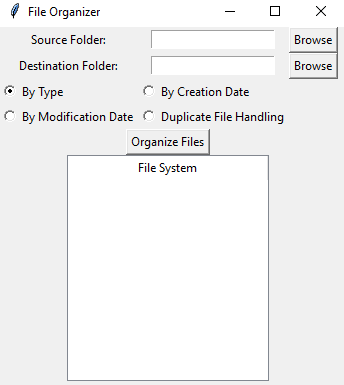
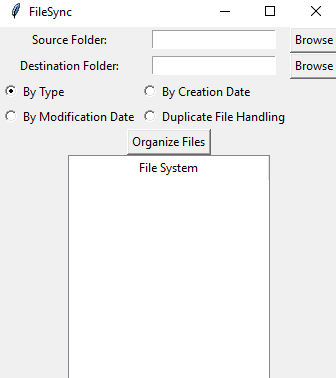
Changes the images and name in main.py file

diff --git a/main.py b/main.py
@@ -4,5 +4,5 @@ from gui import  FileOrganizerGUI
 if __name__ == "__main__":
     root = tk.Tk()
     app = FileOrganizerGUI(root)
-    root.title("File Organizer")
+    root.title("FileSync")
     root.mainloop()
